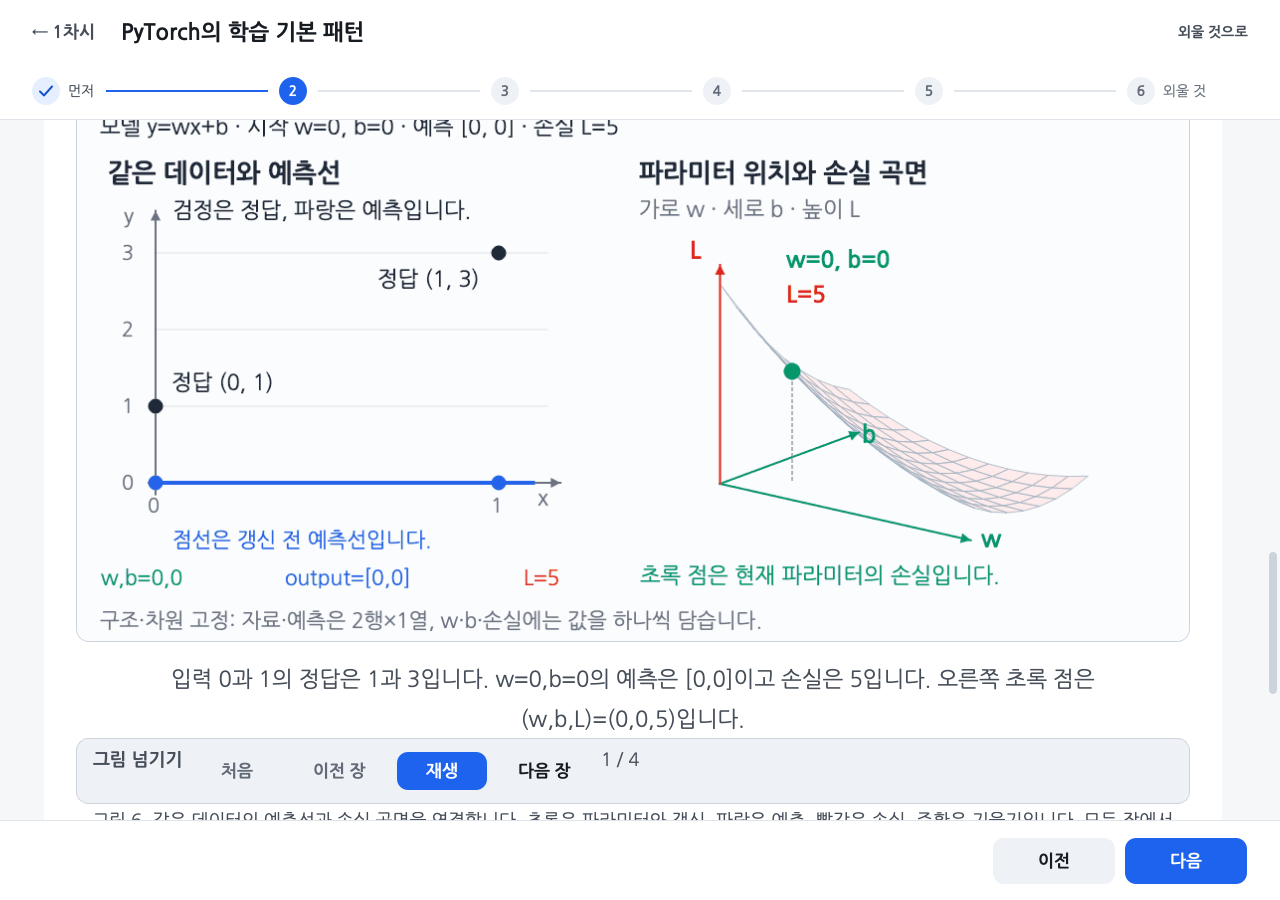
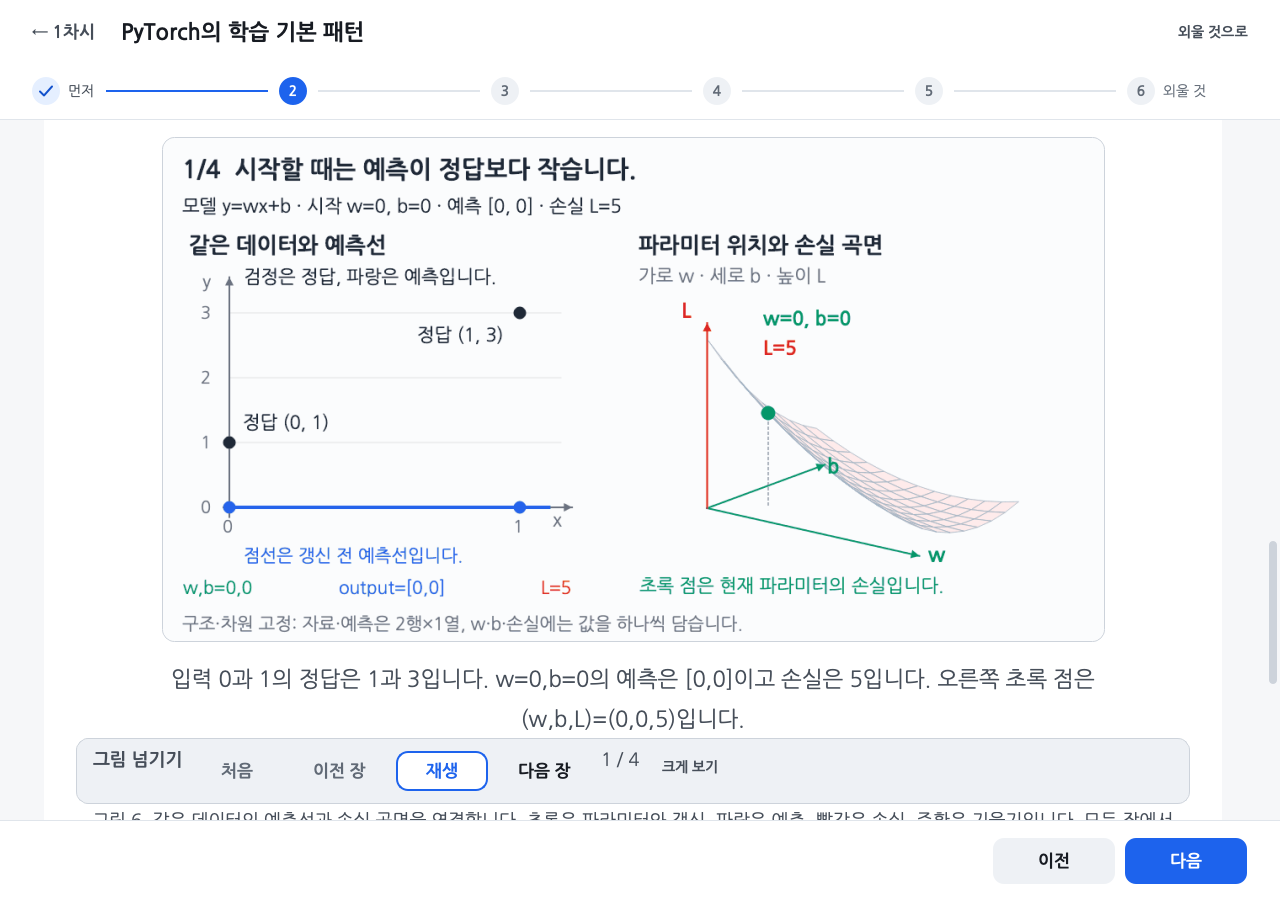
fix(learn): 용어 소개와 그림 조작의 회귀를 바로잡음
소개하지 않은 용어의 뜻을 설명하고 읽기 기록과 초안 복원을 구분함. 그림 조작의 주·보조 위계와 확대 배율, 풀이 초점과 배너 높이를 고침.

diff --git a/tools/ai_art/l01_training_qt.py b/tools/ai_art/l01_training_qt.py
@@ -1,6 +1,3 @@
-# 글은 사람이 쓴 문장으로 읽히는지 먼저 확인함.
-# 구조·문단 끝·어휘·번역투·서식을 대조하며 설명은 ~니다 체로 씀.
-# 기록은 ~함 체로 쓰고 새 수치·정답·원자료를 임의로 보태지 않음.
 """학습 기본 패턴의 수치 예를 Qt로 그림. 모델 코드는 실행하지 않음."""
 
 import argparse
@@ -258,10 +255,10 @@ def training_steps():
 def development_flow():
     """전체 개발 흐름에서 한 과정의 입력·작업·결과를 크게 표시함."""
     rows = [
-        ("문제 정의", "풀고 싶은 분류 문제", "분류 대상과 기준 정하기", "맞힐 클래스·평가 기준", "지금은 전체 순서를 봅니다."),
-        ("데이터 수집", "구분할 클래스와 대상", "이미지와 정답 준비하기", "이미지·정답 묶음", "10·15차시 · 자료와 정답"),
+        ("문제 정의", "풀고 싶은 분류 문제", "분류 대상과 기준 정하기", "정답 종류·평가 기준", "지금은 전체 순서를 봅니다."),
+        ("데이터 수집", "구분할 정답 종류와 대상", "이미지와 정답 준비하기", "이미지·정답 묶음", "10·15차시 · 자료와 정답"),
         ("전처리", "이미지·정답 묶음", "크기·값을 맞추고 묶기", "같은 모양의 이미지 배치", "10·15차시 · 변환과 배치"),
-        ("모델 설계", "배치 모양·클래스 수", "입력과 마지막 층 정하기", "클래스별 점수를 내는 모델", "13차시 · 새 분류기"),
+        ("모델 설계", "배치 모양·정답 종류 수", "입력과 마지막 층 정하기", "정답 종류별 점수를 내는 모델", "13차시 · 새 분류기"),
         ("학습", "모델·학습용 배치", "학습 기본 패턴 반복하기", "갱신한 모델 파라미터", "14차시 · 갱신 범위와 학습률"),
         ("평가", "학습한 모델·검증 배치", "갱신 없이 손실·정확도 재기", "검증 손실·정확도", "10·12차시 · 지표와 검증 곡선"),
         ("개선", "검증 손실·예측 오류", "학습률 등 조건 다시 선택하기", "다시 학습할 조건", "조건을 바꿔 학습·평가합니다."),

diff --git a/gui/ai_learn.py b/gui/ai_learn.py
@@ -219,11 +219,14 @@ class AiFigure(FigureView):
         self.frame_text.setVisible(self.available and any(frame.get("text") for frame in self.frames))
 
     def display_scale(self):
-        return super().display_scale() * theme.BASE_TYPE["body"][0] / theme.TYPE["learn_body"][0]
+        largest = theme.scaled_type(theme.TEXT_STEPS[-1])["learn_body"][0]
+        return largest / theme.TYPE["learn_body"][0] / 1.5
 
     def display_width(self):
-        """학습 그림은 본문 폭까지 넓히되 원본 폭의 1.5배 안에서 비율을 유지함."""
-        return min(max(1, self.width()), self.source.width() * 1.5)
+        """글자가 커지면 그림도 키우며 최대 글자에서 가용 폭과 원본 1.5배 상한까지 씀."""
+        largest = theme.scaled_type(theme.TEXT_STEPS[-1])["learn_body"][0]
+        text_scale = theme.TYPE["learn_body"][0] / largest
+        return min(max(1, self.width()), self.source.width() * 1.5) * text_scale
 
     def zoom_scale(self):
         return min(1, self.display_scale())
@@ -1265,7 +1268,8 @@ class StepView(QWidget):
         column = kit.box(self, spacing=theme.LEARN_GAP["group"])
         if not ctx.readonly:
             from gui.learning_context import LearningContext, unit_context
-            context = unit_context(ctx.win.ai.root, ctx.key) if ctx.win.ai is not None else None
+            root = getattr(ctx.win.ai, "root", None)
+            context = unit_context(root, ctx.key) if root else None
             if context is not None:
                 self.context = LearningContext(*context, reflect=step["scope"] == "memo",
                                                expanded=step["no"] == 1 or step["scope"] == "memo")
@@ -1531,7 +1535,7 @@ class AiLearnPage(QWidget):
             self.queue_position(None)
 
     def clear_view_state(self, unit):
-        """단원을 다시 열거나 서비스가 바뀌면 화면 상태와 대기 중 복원을 버림."""
+        """단원이나 서비스가 바뀌면 화면 상태와 대기 중 복원을 버림."""
         self.position_timer.stop()
         self.pending_position = None
         self.view_states, self.view_key, self.state_unit = {}, None, unit

diff --git a/gui/docview.py b/gui/docview.py
@@ -763,7 +763,9 @@ class FigureView(QWidget):
             old[1].deleteLater()
 
     def _button(self, bar, text, slot):
-        button = kit.button(text, "primary" if text == "재생" else "secondary", "m")
+        button = kit.button(text, "secondary", "m")
+        if text == "재생":
+            button.setProperty("figureplay", True)
         button.clicked.connect(slot)
         bar.addWidget(button)
         return button
@@ -856,6 +858,7 @@ class FigureView(QWidget):
         self.play_btn.setMinimumWidth(max(widths))
         self.controls.layout().invalidate()
         self.controls.updateGeometry()
+        self.place_zoom(self.shrunk and self.zoomable)
 
     def display_scale(self):
         """그림 원본과 표시 크기의 비율. 학습 그림은 본문 크기에 맞춰 바꿀 수 있음."""
@@ -911,9 +914,14 @@ class FigureView(QWidget):
     def bar_room(self):
         """넘김 줄에서 단추·장 번호와 그 사이 간격을 뺀 남는 폭."""
         parts = (self.controls_heading, self.first_btn, self.prev_btn, self.play_btn, self.next_btn, self.counter)
+        self.controls.ensurePolished()
+        for part in parts:
+            part.ensurePolished()
         layout = self.controls.layout()
         left, _, right, _ = layout.getContentsMargins()
-        return self.width() - left - right - sum(part.sizeHint().width() for part in parts) - layout.spacing() * len(parts)
+        frame = self.controls.contentsMargins()
+        return self.width() - frame.left() - frame.right() - left - right - \
+            sum(part.sizeHint().width() for part in parts) - layout.spacing() * len(parts)
 
     def open_dialog(self):
         """지금 장을 그린 크기로 보는 창을 띄움."""

diff --git a/tests/test_gui_learning_state.py b/tests/test_gui_learning_state.py
@@ -147,7 +147,7 @@ class LearningStateTest(unittest.TestCase):
         self.round_trip()
         self.assertAlmostEqual(bar.value(), expected, delta=2)
 
-    def test_new_unit_and_reopened_unit_start_without_old_drafts(self):
+    def test_new_unit_is_empty_and_reopening_the_same_unit_keeps_its_draft(self):
         self.field().setText("이전 단원의 초안")
         self.page.view.figures[0].go(3)
         self.page.load("test", "two", 2)
@@ -161,7 +161,7 @@ class LearningStateTest(unittest.TestCase):
         self.field().setText("다시 열기 전 초안")
         self.page.load("test", "one", 2)
         self.settle()
-        self.assertEqual(self.field().text(), "")
+        self.assertEqual(self.field().text(), "다시 열기 전 초안")
 
     def test_changed_service_discards_the_old_window_state(self):
         self.field().setText("이전 서비스의 초안")
@@ -249,6 +249,10 @@ class LearningStateTest(unittest.TestCase):
         self.assertEqual(self.field().text(), "")  # 제출한 칸의 판정과 완성 상태는 복원 범위 밖임
         self.page.show_step(3)
         self.settle()
+        self.assertEqual([call[0] for call in self.win.ai.calls if call[0] != "step"], ["recall"])
+        with mock.patch.object(self.win, "open_ai_practice", create=True) as practice:
+            self.page.forward()
+        practice.assert_called_once_with("unit", lesson="test", unit="one")
         self.assertEqual([call[0] for call in self.win.ai.calls if call[0] != "step"], ["recall", "learn"])
 
     def test_read_failure_leaves_the_current_draft_in_place(self):

diff --git a/gui/theme.py b/gui/theme.py
@@ -280,6 +280,10 @@ QWidget[ui="2"] QPushButton#primary { background: %(primary)s; color: %(primary_
 QWidget[ui="2"] QPushButton#primary:hover, QWidget[ui="2"] QPushButton#primary:pressed { background: %(primary_hover)s; }
 QWidget[ui="2"] QPushButton#primary:focus { border-color: %(surface)s; }
 QWidget[ui="2"] QPushButton#primary:disabled { background: %(primary_off)s; color: %(primary_off_ink)s; }
+QWidget[ui="2"] QPushButton[figureplay="true"] { background: %(surface)s; color: %(primary)s; border: 2px solid %(primary)s; }
+QWidget[ui="2"] QPushButton[figureplay="true"]:hover, QWidget[ui="2"] QPushButton[figureplay="true"]:pressed { background: %(selection)s; }
+QWidget[ui="2"] QPushButton[figureplay="true"]:focus { border-color: %(focus)s; }
+QWidget[ui="2"] QPushButton[figureplay="true"]:disabled { background: %(primary_off)s; color: %(primary_off_ink)s; border-color: %(border)s; }
 QWidget[ui="2"] QPushButton#text { background: transparent; color: %(muted)s; padding: 0 12px; }
 QWidget[ui="2"] QPushButton#text:hover { background: %(hover)s; color: %(ink)s; }
 QWidget[ui="2"] QPushButton#text[onbg="true"]:hover { background: %(line)s; }

diff --git a/tests/test_gui_docview.py b/tests/test_gui_docview.py
@@ -529,7 +529,8 @@ class FigureViewTest(unittest.TestCase):
         guikit.pump()
         for button in (figure.first_btn, figure.prev_btn, figure.play_btn, figure.next_btn):
             self.assertEqual((button.objectName(), button.property("scale")),
-                             ("primary" if button is figure.play_btn else "", "m"))
+                             ("", "m"))
+            self.assertEqual(bool(button.property("figureplay")), button is figure.play_btn)
         self.assertEqual(figure.counter.property("role"), "caption")
         self.assertFalse(figure.shrunk or figure.zoom_btn.isVisible() or figure.zoom_row.isVisible())
         guikit.click(figure.next_btn)

diff --git a/gui/kit.py b/gui/kit.py
@@ -178,8 +178,8 @@ class FirstLine(QWidget):
         text = self.text_center()
         mark = max(self.mark.minimumHeight(), self.mark.sizeHint().height(), 0) / 2 if visible else 0
         previous, self.center = self.center, max(mark, text)
-        self.mark_box.setContentsMargins(0, round(self.center - mark), 0, 0)
-        self.text_box.setContentsMargins(0, round(self.center - text), 0, 0)
+        self.mark_box.setContentsMargins(0, math.floor(self.center - mark), 0, 0)
+        self.text_box.setContentsMargins(0, math.floor(self.center - text), 0, 0)
         if previous != self.center:
             self.aligned.emit()
 

diff --git a/tests/test_gui_ai.py b/tests/test_gui_ai.py
@@ -611,6 +611,8 @@ class LessonAndLearnTest(AiTest):
 
     def test_figure_buttons_stay_put_when_frame_lines_differ(self):
         """장 설명 줄 수가 장마다 달라도 설명 칸이 가장 긴 설명의 높이를 지켜 넘김 줄과 캡션이 움직이지 않음. 폭이 바뀌면 다시 잼."""
+        self.addCleanup(theme.set_text, theme.state["text"])
+        theme.set_text("large")
         long = "길게 쓴 장 설명입니다. " * 12
         frames = [{"text": long if n in (0, 3) else "%d장" % (n + 1), "ms": 2000} for n in range(6)]
         figure = ai_learn.AiFigure(REAL_GIF, "그림 2", frames)

diff --git a/gui/ai_quiz.py b/gui/ai_quiz.py
@@ -258,7 +258,8 @@ class PracticePage(QWidget):
         else:
             for row, option in zip(self.choices.rows, item["options"]):
                 row.box.setChecked(option["no"] in values)
-        if self.practice.answered is not None:
+        # 이번 문항이 답한 상태일 때만 저장한 판정을 복원함.
+        if item.get("answered") and self.practice.answered is not None:
             self.dontknow = bool(draft.get("dontknow"))
             self.queued = int(draft.get("queued") or len(self.practice.queue))
             self.show_feedback(self.practice.answered)

diff --git a/ai/learn/l12/page.md b/ai/learn/l12/page.md
@@ -293,7 +293,7 @@ Adam에서 lr를 생략하면 0.001을 사용합니다. betas=(0.9, 0.999)의 0.
 
 조기 종료와 최고 상태의 복사는 10차시 10e/3~4에서 배웠습니다. 그림에서 3에폭의 검증 손실 0.6 뒤로 4에폭은 0.65, 5에폭은 0.75입니다. 연속 두 번 나아지지 않으면 멈추는 규칙에서는 5에폭에서 종료하고 3에폭 상태를 복원합니다. <u>멈추는 규칙과 최고 모델을 고르는 지표를 실험 전에 정해 둡니다.</u>
 
-드롭아웃이나 뒤에서 배울 데이터 증강을 넣은 뒤 훈련이 느려질 수 있어 같은 에폭 수만으로 성능을 단정하지 않습니다. 최종 테스트는 선택을 마친 뒤 평가에 씁니다. 자료 역할은 4차시 4g/4, 스케줄러는 5차시 5e/3~5에 연결됩니다.
+드롭아웃을 쓰거나 훈련 이미지를 변형하면 훈련이 느려질 수 있어 같은 에폭 수만으로 성능을 단정하지 않습니다. 최종 테스트는 선택을 마친 뒤 평가에 씁니다. 자료 역할은 4차시 4g/4, 스케줄러는 5차시 5e/3~5에 연결됩니다.
 
 ```figure
 파일: assets/12c-3.png
